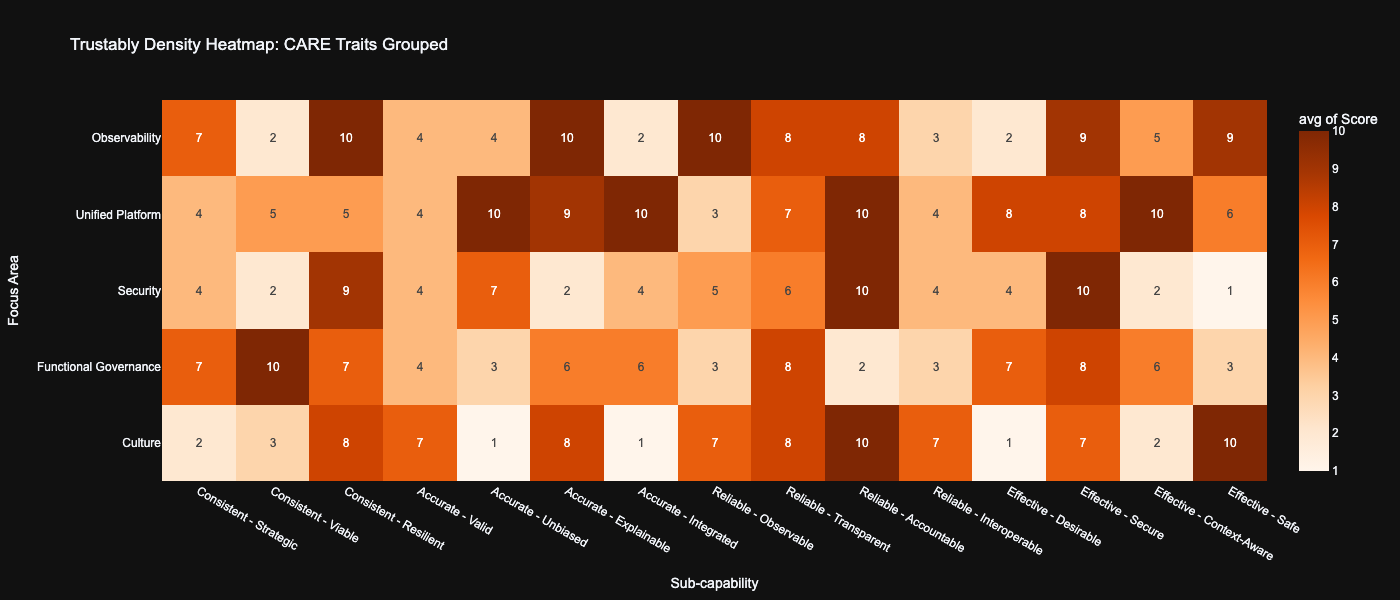
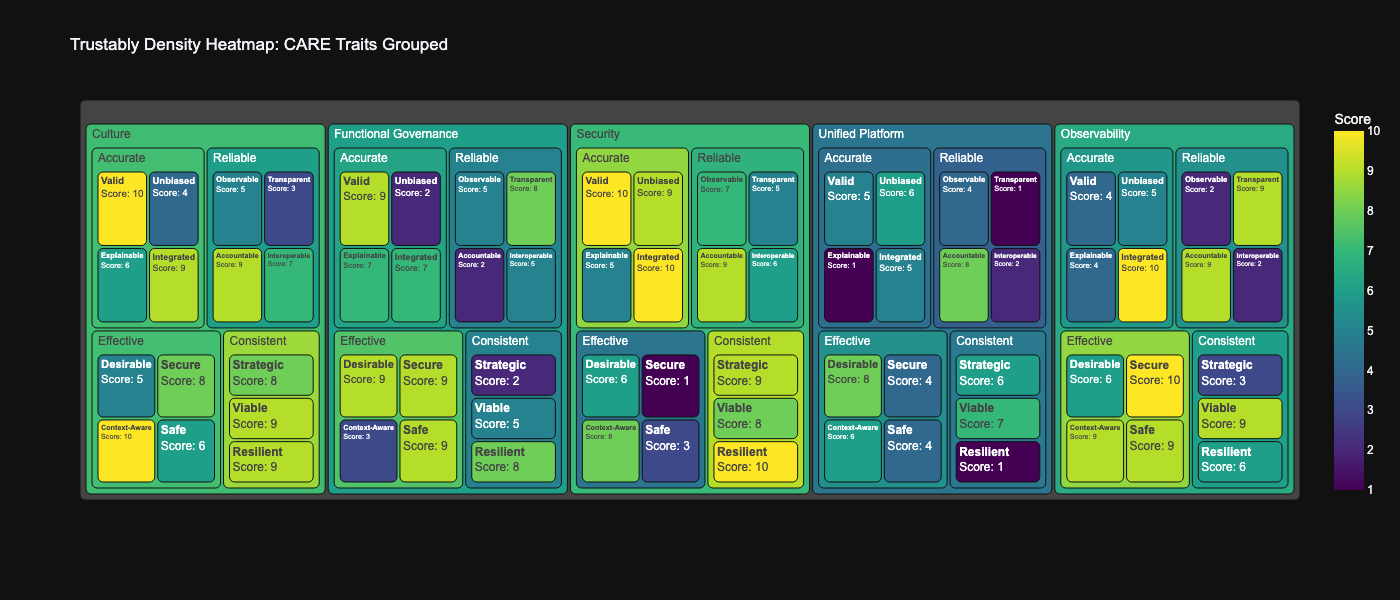
added chart image generation

diff --git a/tests/genimg.py b/tests/genimg.py
@@ -1,0 +1,85 @@
+import plotly.express as px
+import pandas as pd
+import numpy as np
+
+# 1. SETUP THE FRAMEWORK STRUCTURE
+focus_areas = ['Culture', 'Functional Governance', 'Security', 'Unified Platform', 'Observability']
+care_structure = {
+    'Consistent': ['Strategic', 'Viable', 'Resilient'],
+    'Accurate': ['Valid', 'Unbiased', 'Explainable', 'Integrated'],
+    'Reliable': ['Observable', 'Transparent', 'Accountable', 'Interoperable'],
+    'Effective': ['Desirable', 'Secure', 'Context-Aware', 'Safe']
+}
+
+sub_caps = []
+for trait, caps in care_structure.items():
+    prefix = trait[0]
+    for cap in caps:
+        sub_caps.append(f"{prefix}: {cap}")
+
+# 2. GENERATE "LONG FORMAT" DATA
+# To make a density map meaningful, we simulate 5 different assessors 
+# scoring the same 75 cells. This creates "density" of scores.
+all_observations = []
+
+for assessor in range(1): # 5 different people scoring
+    for focus in focus_areas:
+        for trait in care_structure:
+            for sub_cap in care_structure[trait]:
+
+                # Simulate a score with some variance around a mean
+                score = np.random.randint(1, 11) 
+                all_observations.append({
+                    'Focus Area': focus,
+                    'Sub-capability':  sub_cap,
+                    'Trait': trait,
+                    'Score': score
+                })
+
+df_long = pd.DataFrame(all_observations)
+
+for obs in all_observations:
+    print(f"observations: {obs}")
+
+print(len(all_observations))
+# 3. CREATE THE DENSITY HEATMAP
+'''fig = px.density_heatmap(
+    df_long, 
+    # Pass the hierarchy here: Trait first, then Sub-cap
+    x= "Sub-capability", 
+    y="Focus Area", 
+    z="Score", 
+    #facet_col = "Focus Area", facet_row = "Trait",
+    text_auto = True,
+    color_continuous_scale='oranges',
+    template='plotly_dark',
+    title="Trustably Density Heatmap: CARE Traits Grouped"
+)
+'''
+fig = px.treemap(df_long, 
+                path = ["Focus Area", "Trait", "Sub-capability"], 
+                color = "Score", 
+                color_continuous_scale = "viridis", 
+                template='plotly_dark',
+                custom_data=["Score"],
+                title="Trustably Density Heatmap: CARE Traits Grouped")
+
+# 4. THE CRITICAL STYLING FIX
+
+
+fig.update_layout(
+    font_family="Inter, Arial, sans-serif",
+    width=1400, # Increased width to accommodate the groups
+    height=600,
+    margin=dict(b=100) # Give space for the two-level labels
+)
+
+
+fig.update_traces(
+    marker=dict(cornerradius=5),
+    texttemplate="<b>%{label}</b><br>Score: %{customdata[0]}",
+    textinfo="label+text",
+    hovertemplate='<b>%{label}</b><br>Maturity Score: %{customdata[0]}<extra></extra>'
+)
+
+fig.write_image("/Users/ayanguha/projects/trustably-app/static/chart.png")
